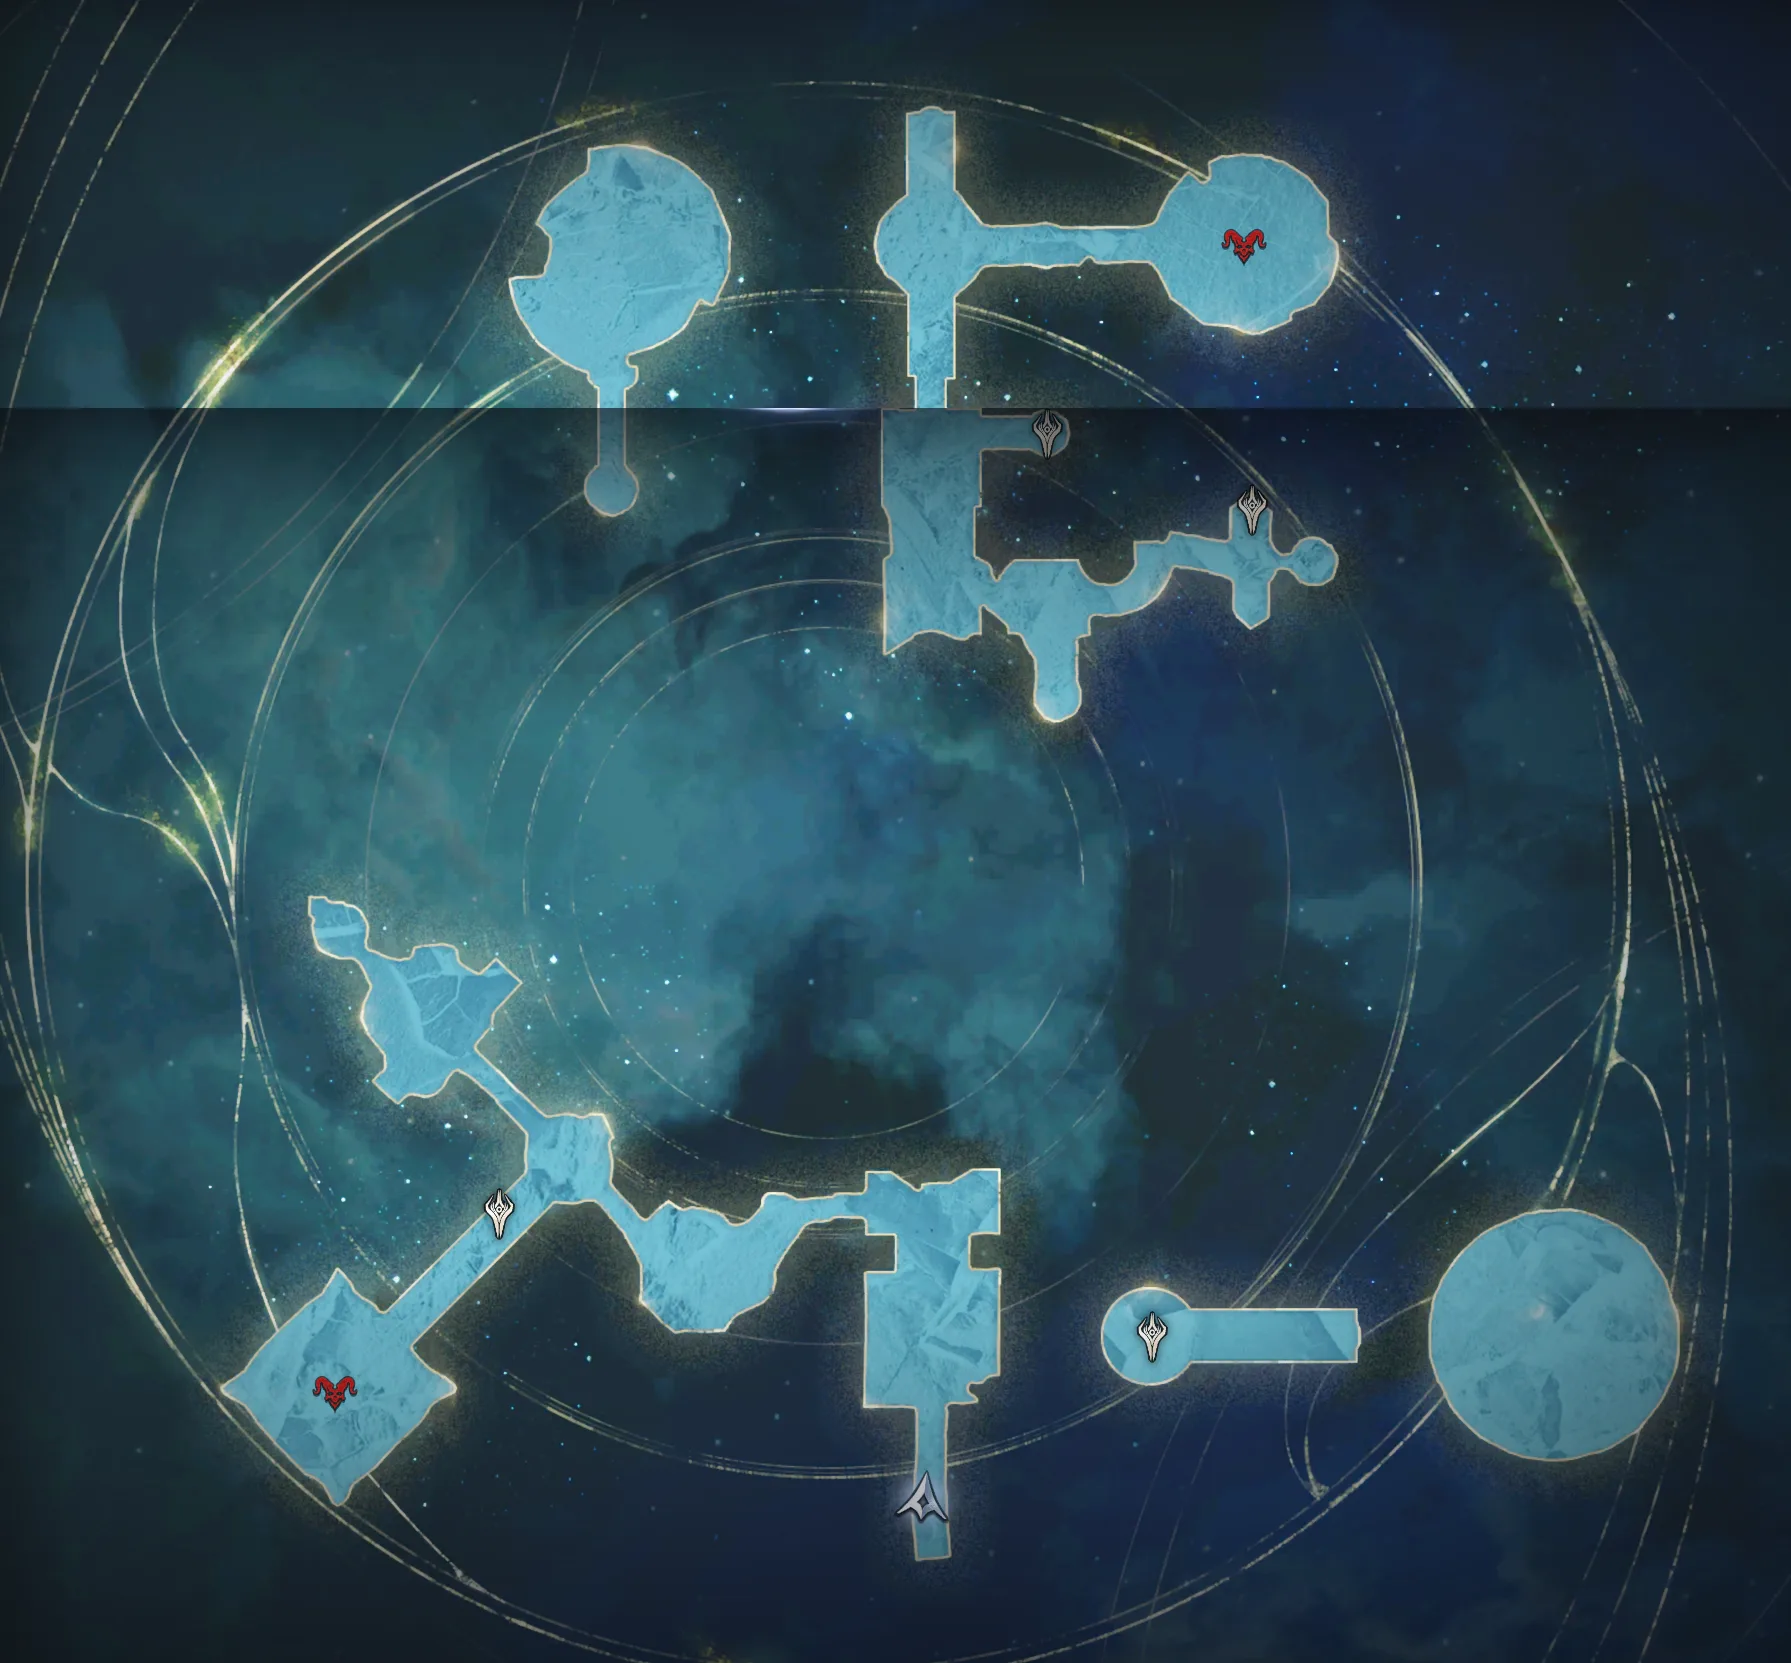
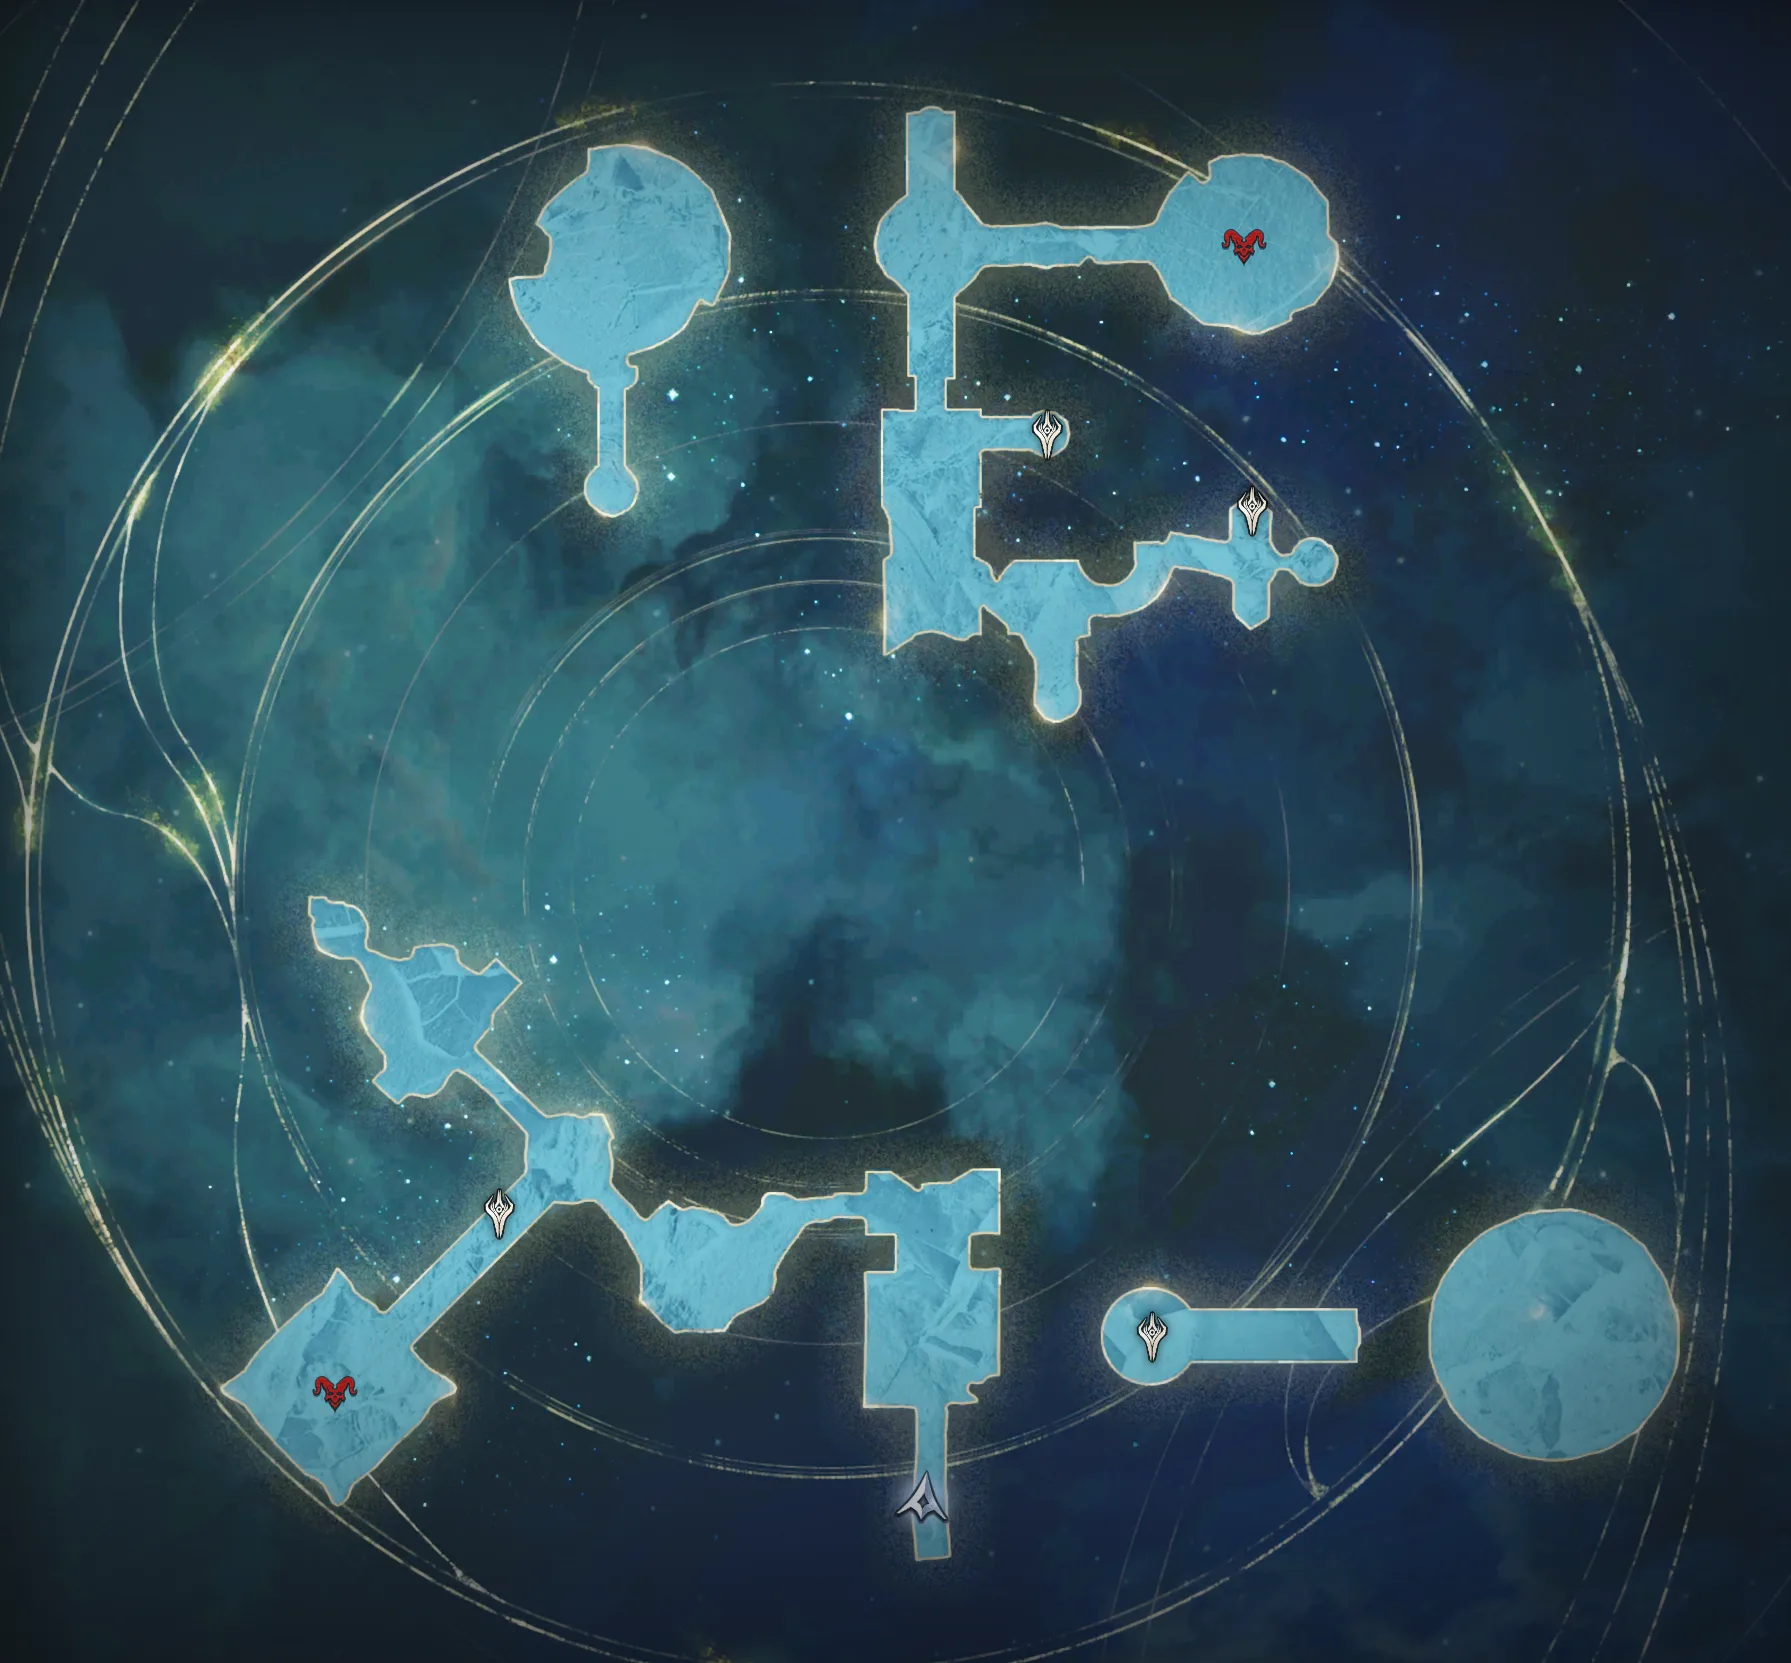
Map: Shattered Arkanis seam, Void Water Spirit (main) (#188)
* Map: Shattered Arkanis without the seam (the two screenshots blended across their overlap)

Claude-Session: https://claude.ai/code/session_01M2zNCTSJjkAqUzkJoKP1A9

* Map: Void Water Spirit (Shattered Arkanis) gives Ultimate Water Spirit

A new dungeon's mob, missing from the souls table: from the recording of 2026-11-26.

Claude-Session: https://claude.ai/code/session_01M2zNCTSJjkAqUzkJoKP1A9

---------

Changed region(s): [[0.0, 0.2453, 0.8906, 0.3987], [0.9213, 0.2453, 0.952, 0.276], [0.8599, 0.3067, 0.8906, 0.3373]]

diff --git a/src/domain/map.test.ts b/src/domain/map.test.ts
@@ -1,7 +1,7 @@
 // Run with: npm test
 import { test } from "node:test";
 import assert from "node:assert/strict";
-import { foundOn, invertAffine, mapOf, onMap, mergeDrops, lootKind, takeLoots, takeSouls, soulOf, unknownMob, type LootKill, type SoulKill, petHome, petList, readDropsFile, dropsFile, type PetDrop, BUNDLED_DROPS, takeBundledDrops, mapOfMob, linkKinds, mobKind, petStops, route, pathLength } from "./map.ts";
+import { foundOn, invertAffine, mapOf, onMap, mergeDrops, lootKind, takeLoots, takeSouls, soulOf, unknownMob, type LootKill, type SoulKill, petHome, petList, readDropsFile, dropsFile, type PetDrop, BUNDLED_DROPS, takeBundledDrops, mapOfMob, linkKinds, mobKind, petStops, route, pathLength, gameKind } from "./map.ts";
 import { readFileSync } from "node:fs";
 import { ABYSS_FIT, ELYOS_FIT, KRAO_FIT, KRAO_MAP_IDS, URUGUGU_FIT, FIRE_FIT, DRAUPNIR_FIT, VAKRON_FIT, HORN_FIT, ARKANIS_FIT, isMapKey, applyAffine, bearing, BUNDLED_FIT, climb, onRadar, staleFor, STALE_POSITION_MS, travelNote, travelIcon, cleanMap, emptyMap, takeCubes, clusters, fitAffine, fitError, fitView, toImage, toScreen, zoomAt, type MapPoint } from "./map.ts";
 
@@ -580,4 +580,12 @@ test("a kill shows under the pet its mob gives in the game's data, not the one a
   assert.equal(shown[0].kind, 1137);
   assert.equal(shown[0].pet, "Mumu Worker");
   assert.equal(shown[1].kind, 1063, "a mob the data doesn't list keeps its number");
+});
+
+test("a new dungeon's mob: Void Water Spirit's kills go to Ultimate Water Spirit (1090)", () => {
+  assert.equal(gameKind("Void Water Spirit"), 1090);
+  const map = emptyMap();
+  takeSouls(map, [{ entity: 1, x: 9273, y: -15544, z: 104333, mapId: 600063, kind: 1090, points: 1, atMs: 5, mob: "Void Water Spirit" } as any], "Me");
+  assert.equal(map.pets[0].kind, 1090);
+  assert.equal(map.pets[0].map, "arkanis");
 });

diff --git a/src/domain/map.ts b/src/domain/map.ts
@@ -654,13 +654,21 @@ export function mobKind(map: Pick<MapData, "pets">, mob: string): number | null 
   return n >= 3 ? kind : null;
 }
 
+/**
+ * Monsters newer than `mob-souls.ts`'s data (a new dungeon's), as the player's recordings showed them: a kill's
+ * "Soul: X (Bound)" loot and the soul points that followed. Void Water Spirit (Shattered Arkanis): Soul: Ultimate
+ * Water Spirit and +1 to pet 1090, recording of 2026-11-26 10:10.
+ */
+const RECORDED_MOB_SOULS: Record<string, string[]> = { "void water spirit": ["Ultimate Water Spirit"] };
+
 const PET_BY_NAME = new Map(Object.entries(KNOWN_PET_NAMES).map(([k, n]) => [n.toLowerCase(), Number(k)]));
 /**
  * The pet number a mob's kills give, from the game's data (`mob-souls.ts`: the soul its kills drop, named like the
  * pet): null when the mob isn't listed, drops several souls, or its soul has no known pet number.
  */
 export function gameKind(mob: string | undefined): number | null {
-  const souls = mob ? MOB_SOULS[mob.trim().toLowerCase()] : undefined;
+  const key = mob?.trim().toLowerCase();
+  const souls = key ? MOB_SOULS[key] ?? RECORDED_MOB_SOULS[key] : undefined;
   return souls?.length === 1 ? PET_BY_NAME.get(souls[0].toLowerCase()) ?? null : null;
 }
 

diff --git a/CLAUDE.md b/CLAUDE.md
@@ -85,7 +85,7 @@ Layers, dependencies pointing inward: `domain` ← `app` ← `ui` / `infra`; `ma
     pan/zoom math, game→pixel affine fit (the player's references per map override the bundled one); pets' soul point drops (`PetDrop`:
     from the meter's soul kills (`takeSouls`, one per mob and spot; a mob not seen spawning named by its soul kind, `kinds`; a kill while the meter has no map id (app started in game) on the one map its mob's spots are on, `mapOfMob`, else it waits; points of another pet than the mob always gives, `mobKind`, are paired with the wrong kill: no spot) and your loots of an item the player named as a pet's crystal
     (`takeLoots`, `items`: a finished collection drops a crystal instead of soul points), "Soul points here" or a click; `souls` = mob → soul as the player
-    named it (`soulOf`), shared as a `dropsFile` with the names and merged by id or same time+spot+mob (adds only, names already set stay); `src/assets/pet-drops.json` = the players' shared drops without their names, merged once per `BUNDLED_DROPS` date (`takeBundledDrops`, fetched in `main.ts`; a save that merged an older bundle (`BUNDLES_MERGED`) takes only its map corrections, `fixDropMaps`: 2026-11-22 moved one Abyss run recorded under map 1110 to 20), `petList` search by soul or mob (a mob listed only under the pet most of its drops gave), `petHome`; `gameKind` / `asGameSays`: `mob-souls.ts` = monster → the soul its kills drop (253 souls, 510 monsters: aion2hub's item pages, Global client data of a test client, by `scripts/souls.ps1` (Windows PowerShell, no Node) then `node scripts/mob-souls.mjs souls.json`; 449/449 recorded loots of 5 mobs agree), the soul named like the pet (`KNOWN_PET_NAMES`): `allDrops` shows every kill under it, `sharedDrops` other players' too, `soulsToSend` sends it, `mobKind` answers it first; the saved drops are left as they were (until 2026-11-22 about 1 kill in 8 carried another mob's pet number); a mob with several souls or a soul with no known pet: the kill's own; `linkKinds`: kills recorded with no pet number get their mob's, the player's pick `mobPets` (drop panel) else the kind its other kills carried most, `linked`; never for crystals); cubes found and
+    named it (`soulOf`), shared as a `dropsFile` with the names and merged by id or same time+spot+mob (adds only, names already set stay); `src/assets/pet-drops.json` = the players' shared drops without their names, merged once per `BUNDLED_DROPS` date (`takeBundledDrops`, fetched in `main.ts`; a save that merged an older bundle (`BUNDLES_MERGED`) takes only its map corrections, `fixDropMaps`: 2026-11-22 moved one Abyss run recorded under map 1110 to 20), `petList` search by soul or mob (a mob listed only under the pet most of its drops gave), `petHome`; `gameKind` / `asGameSays`: `mob-souls.ts` = monster → the soul its kills drop (253 souls, 510 monsters: aion2hub's item pages, Global client data of a test client, by `scripts/souls.ps1` (Windows PowerShell, no Node) then `node scripts/mob-souls.mjs souls.json`; 449/449 recorded loots of 5 mobs agree) + `RECORDED_MOB_SOULS` (newer mobs from the player's recordings: Void Water Spirit → Ultimate Water Spirit, Shattered Arkanis), the soul named like the pet (`KNOWN_PET_NAMES`): `allDrops` shows every kill under it, `sharedDrops` other players' too, `soulsToSend` sends it, `mobKind` answers it first; the saved drops are left as they were (until 2026-11-22 about 1 kill in 8 carried another mob's pet number); a mob with several souls or a soul with no known pet: the kill's own; `linkKinds`: kills recorded with no pet number get their mob's, the player's pick `mobPets` (drop panel) else the kind its other kills carried most, `linked`; never for crystals); cubes found and
     cube codes learned (`takeCubes`, `KNOWN_CUBE_CODES`), `bearing` / `climb` for the cube popup, `onRadar` for the radar, `travelNote` / `travelIcon` (the meter's `travel`: gliding / on a mount, as a note on the radar, the cube popup and the Map page, and your marker turned into a wing / a horse: `ui/icons.ts` `TRAVEL_ICON`, original shapes), farming route (`petStops`: one stop per soul at its busiest spot, drops within `CAMP_RADIUS` 30 m; `route`: nearest stop next from you, then 2-opt, straight lines only; the Map menu's "Farming route": pets still to collect on the open map, a dashed line through numbered stops), `staleFor` (your position older than `STALE_POSITION_MS` 10 s: on a mount or in flight the game sends none, recording of 2026-11-14; the radar and the cube popup say how old it is)
 - `src/app/` — use cases that change `AppData` (`auto.ts`: `autoTick`, an event's tasks ticked as normal undoable progress (goal tasks +1 on the first unreached goal, a map re-entered within `REENTRY_MS` counts once), progress, tasks, characters, season, settings, planner session, `checkNotifications`, `crafting.ts`: items, recipes, targets, stock, prices, recipe JSON export/import, `arena.ts`: meter data into the save file, `crowd.ts`: share/download boss timers, cube spots and gathering spots (`flushGathers` every 5 min: `toSend`'s spots (place, material, last time), `sentMs` moved and saved after each batch the Worker took; `syncGathers` = `ui/actions.ts` `refreshGathers`: at start, every 10 min while playing and when the Map's Gathering layer opens, at most once a minute; the layer's Refresh button = `refreshGathers(true)`: yours not sent yet first, then read now, `ui.gathersAt` shown), boss reads every 2 min only while playing)
 - `src/infra/` — Tauri adapters: `storage.ts` (plugin-store `data.json`, export/import), `notifier.ts` (toasts, sounds), `steam.ts` (news fetch), `map-image.ts` (images the player picks, in IndexedDB, never in the save file, export or repo: an imported image per map, else the bundled one in `src/assets/ncsoft/` (`ui/maps.ts`), © NCSOFT, outside the GPL; the cube popup's "opened by you / by others" pictures), `system.ts` (autostart, updater: `main.ts` `checkUpdate` installs a newer release by itself when the app opens if `settings.autoUpdate` (default on), else and every 6 h the banner offers it; `settings.betaUpdates` (default off, Settings > System) = `findUpdate(true)`: the beta manifest through `update_check_beta` (`src-tauri/src/updates.rs`, the updater's JS API can't change the endpoint), turned off = stable again from the next stable release; `tray-mute` event), `meter.ts` (DPS engine commands + `meter-update` / `meter-overlay` events, browser demo), `fights.ts` (the Fight Log in its own plugin-store file `fights.json`, not in the save file or export; compact JSON (`lib.rs` `compact_json`, the store's `serializeFnName: "compact"`), records packed by `domain/fights.ts` `packFight` / `unpackFight` under `format` `FIGHTS_FORMAT`: no `dps` / `hps` (recomputed), shares and rates to 3 decimals, `series` in thousands), `crowd.ts` (calls the Worker at `CROWD_URL` in `config.ts`, `VITE_CROWD_URL` overrides it), `armory.ts` (official search and profiles through `armory_get` in `src-tauri/src/armory.rs`, not the HTTP plugin: its `Origin: http://tauri.localhost` gets a 403 from the search; desktop app only: at most 4 requests at once, starts 150 ms apart (one at a time took ~30 s for a profile's pieces); Players asks for the equipment with the profile; what the Players page asks for (searches, profile, pieces, boards) goes first in the queue, `officialProfile` (background lookups: Arena players and kill history, static members) after (`slot(first)`; first ones made a profile's pieces wait, 2026-11-25); a search cached 1 min (a failed one 5 s, after one retry), a profile 10 min, a failure 1 min; the site not answering (3 failures in a row: maintenance, 2026-11-25) = background lookups fail at once for a minute (`siteDown`); the Players page gives up on a profile or a known-server search after 25 s (`within`) with "Try again"; HTML with status 200 = error), `sentry.ts` (Sentry project `krajetum/javascript-svelte`, opt-in `settings.crashReports`, off by default, `SENTRY_DSN` in `config.ts` or `VITE_SENTRY_DSN`: errors, tracing, replay with all text/inputs/media masked, console warn/error as logs; no user data. Source maps uploaded by `vite.config.ts` only when `SENTRY_AUTH_TOKEN` is set, in CI)

diff --git a/src/assets/ncsoft/README.md b/src/assets/ncsoft/README.md
@@ -9,7 +9,7 @@
 `draupnir-cave-map.webp` is the Draupnir dungeon map, two in-game screenshots joined (1226 × 1757 px, 2026-11-22).
 `vakron-sky-island-map.webp` is the Vakron Sky Island dungeon map, three in-game screenshots joined (2400 × 2272 px, 2026-11-22).
 `ferocious-horn-den-map.webp` is the Ferocious Horn Den dungeon map, two in-game screenshots joined (2021 × 2009 px, 2026-11-22).
-`shattered-arkanis-map.webp` is the Shattered Arkanis dungeon map, two in-game screenshots joined (1791 × 1663 px, 2026-11-25).
+`shattered-arkanis-map.webp` is the Shattered Arkanis dungeon map, two in-game screenshots joined (blended across their overlap, no seam) (1791 × 1663 px, 2026-11-25).
 AION 2 and its art are © NCSOFT Corporation. These files are **not** licensed under GPL-3.0 with
 the rest of the repository; they are included only so the Map page has maps to start from, and it
 will be removed at NCSOFT's request.
